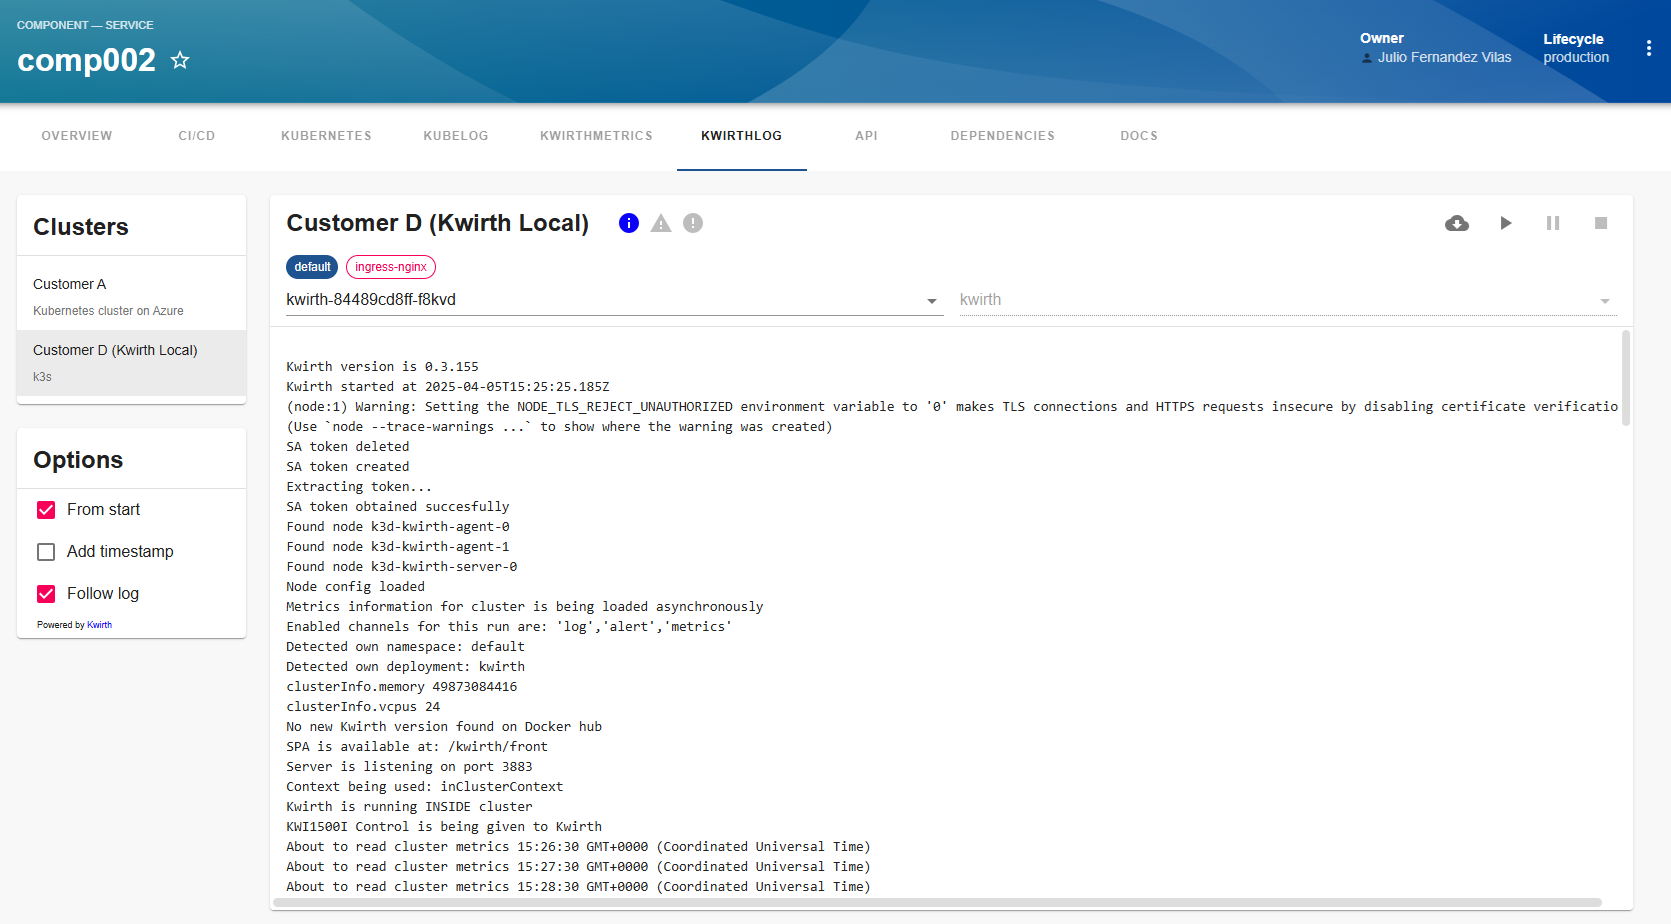
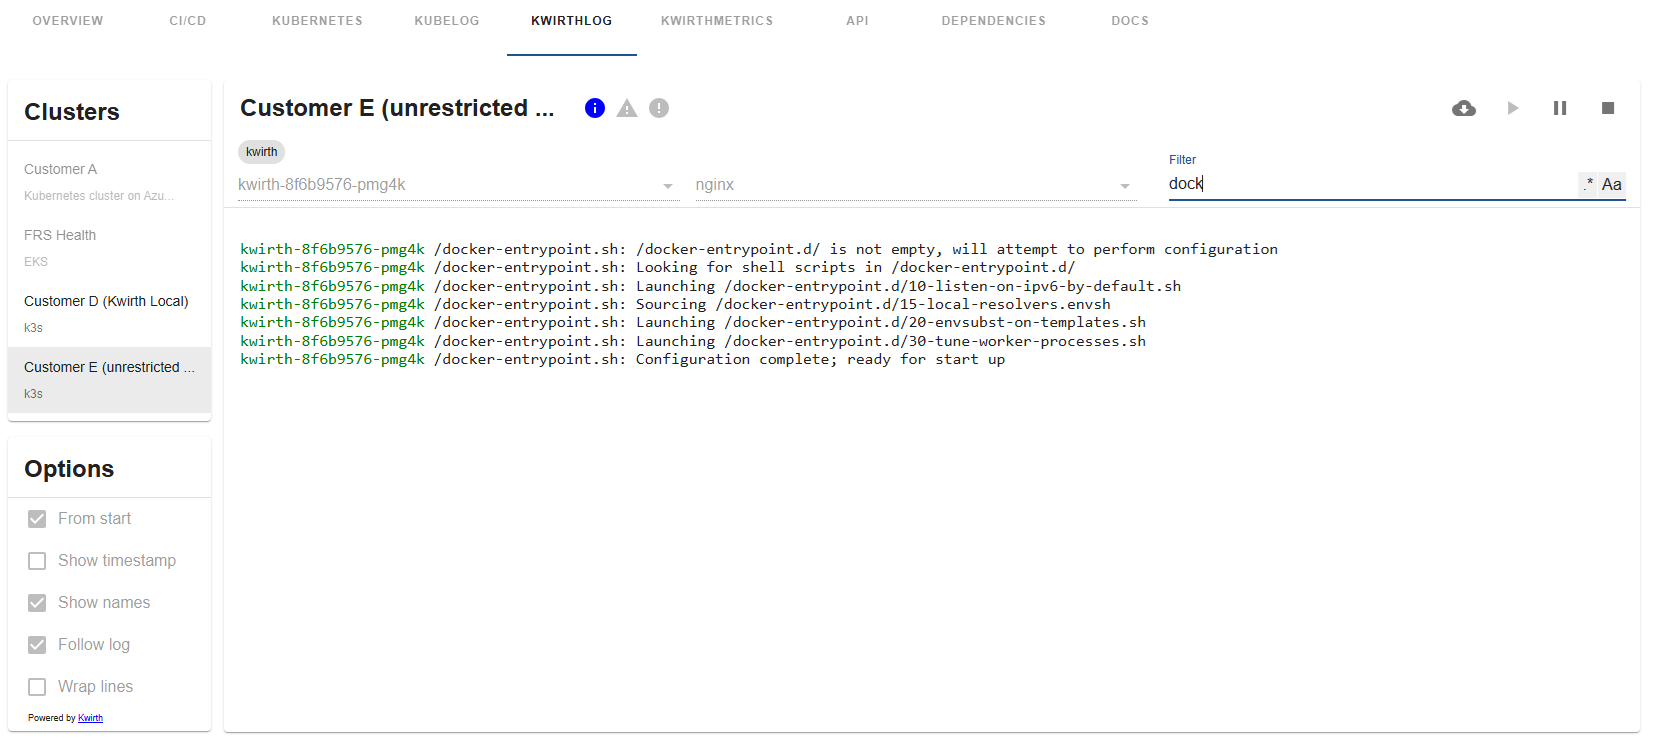
add default options and doc

diff --git a/src/components/EntityKwirthLogContent.tsx b/src/components/EntityKwirthLogContent.tsx
@@ -31,7 +31,7 @@ import { Options } from './Options'
 import { KwirthNews, ComponentNotFound, ObjectSelector, StatusLog, ClusterList, ErrorType } from '@jfvilas/plugin-kwirth-frontend'
 
 // Material-UI
-import { Grid, Card, CardHeader, CardContent, Box, TextField } from '@material-ui/core'
+import { Grid, Card, CardHeader, CardContent, Box, TextField, InputAdornment } from '@material-ui/core'
 import Divider from '@material-ui/core/Divider'
 import IconButton from '@material-ui/core/IconButton'
 import Typography from '@material-ui/core/Typography'
@@ -53,12 +53,12 @@ export interface IProps {
     enableRestart: boolean
     fromStart?: boolean
     showTimestamp?: boolean
-    showPodNames?: boolean
+    showNames?: boolean
     followLog?: boolean
     wrapLines?: boolean
 }
 
-export const EntityKwirthLogContent = (props:IProps) => { 
+export const EntityKwirthLogContent: React.FC<IProps> = (props:IProps) => { 
     const { entity } = useEntity()
     const kwirthLogApi = useApi(kwirthLogApiRef)
     const alertApi = useApi(alertApiRef)
@@ -78,7 +78,7 @@ export const EntityKwirthLogContent = (props:IProps) => {
     const kwirthLogOptionsRef = useRef<IOptions>({
         fromStart: props.fromStart!==undefined? props.fromStart : false, 
         showTimestamp: props.showTimestamp!==undefined?props.showTimestamp:false, 
-        showPodNames: props.showPodNames!==undefined?props.showPodNames : true, 
+        showNames: props.showNames!==undefined?props.showNames : true, 
         followLog: props.followLog!==undefined? props.followLog : true, 
         wrapLines: props.wrapLines!==undefined? props.wrapLines : false
     })
@@ -97,8 +97,12 @@ export const EntityKwirthLogContent = (props:IProps) => {
         setResources(data)
     })
     const buffer = useRef<Map<string,string>>(new Map())
-    const [filter, setFilter] = useState(undefined)
+    const [filter, setFilter] = useState<string>('')
+    const [filterCasing, setFilterCasing] = useState(false)
+    const [filterRegex, setFilterRegex] = useState(false)
 
+    const adornmentSelected= { margin: 0, borderWidth:1, borderStyle:'solid', borderColor:'gray', paddingLeft:3, paddingRight:3, backgroundColor:'gray', cursor: 'pointer', color:'white'}
+    const adornmentNotSelected = { margin: 0, borderWidth:1, borderStyle: 'solid', borderColor:'#f0f0f0', backgroundColor:'#f0f0f0', paddingLeft:3, paddingRight:3, cursor:'pointer'}
     const clickStart = (options:IOptions) => {
         if (!paused.current) {
             setStarted(true)
@@ -526,11 +530,34 @@ export const EntityKwirthLogContent = (props:IProps) => {
             return <>{logLine.text+'\n'}</>
         }
 
-        if (filter!==undefined && filter!=='') {
-            if (!logLine.text.includes(filter) && !logLine.pod.includes(filter) && !logLine.container.includes(filter)) return <></>
+        if (filter!=='') {
+            if (filterCasing) {
+                if (filterRegex) {
+                    try {
+                        const regex=new RegExp(filter)
+                        if (!regex.test(logLine.text) && !regex.test(logLine.pod) && !regex.test(logLine.container)) return <></>
+                    }
+                    catch { return <></> }
+                }
+                else {
+                    if (!logLine.text.includes(filter) && !logLine.pod.includes(filter) && !logLine.container.includes(filter)) return <></>
+                }
+            }
+            else {
+                if (filterRegex) {
+                    try {
+                        const regex=new RegExp(filter.toLocaleLowerCase())
+                        if (!regex.test(logLine.text.toLocaleLowerCase()) && !regex.test(logLine.pod.toLocaleLowerCase()) && !regex.test(logLine.container.toLocaleLowerCase())) return <></>
+                    }
+                    catch { return <></> }
+                }
+                else {
+                    if (!logLine.text.toLocaleLowerCase().includes(filter.toLowerCase()) && !logLine.pod.toLocaleLowerCase().includes(filter.toLocaleLowerCase()) && !logLine.container.toLocaleLowerCase().includes(filter.toLocaleLowerCase())) return <></>
+                }
+            }
         }
         let podPrefix = <></>
-        if (selectedPodNames.length !== 1 || kwirthLogOptionsRef.current.showPodNames) {  // +++test
+        if (selectedPodNames.length !== 1 || kwirthLogOptionsRef.current.showNames) {  // +++test
             podPrefix  = <span style={{color:"green"}}>{logLine.pod+' '}</span>
         }
 
@@ -604,7 +631,18 @@ export const EntityKwirthLogContent = (props:IProps) => {
                                     </Typography>
                                 </Grid>
                                 <Grid item style={{width:'33%', marginLeft:0}} >
-                                    <TextField value={filter} onChange={onChangeFilter} label='Filter' fullWidth style={{marginBottom:6, marginLeft:0}} disabled={!started} ></TextField>
+                                    <TextField value={filter} onChange={onChangeFilter} label='Filter' fullWidth style={{marginBottom:6, marginLeft:0}} disabled={!started} 
+                                        InputProps={{    endAdornment: 
+                                            <>
+                                                <InputAdornment position="start" onClick={() => started && setFilterRegex(!filterRegex)} style={{margin: 0}}>
+                                                    <Typography style={filterRegex? adornmentSelected : adornmentNotSelected}>.*</Typography>
+                                                </InputAdornment>
+                                                <InputAdornment position="start" onClick={() => started && setFilterCasing(!filterCasing)} style={{margin: 0, marginLeft:1}}>
+                                                    <Typography style={filterCasing? adornmentSelected : adornmentNotSelected}>Aa</Typography>
+                                                </InputAdornment>
+                                            </>
+                                        }}
+                                    />
                                 </Grid>
                             </Grid>
                             <Divider/>

diff --git a/src/components/Options.tsx b/src/components/Options.tsx
@@ -48,7 +48,7 @@ const Options = (props: IProps) => {
                 <FormControlLabel style={{marginLeft:8}} label="Show timestamp" control={<Checkbox checked={options.showTimestamp} onChange={() => handleChange({showTimestamp:!options.showTimestamp})} disabled={props.disabled}/>} />
             </Grid>
             <Grid item >
-                <FormControlLabel style={{marginLeft:8}} label="Show names" control={<Checkbox checked={options.showPodNames} onChange={() => handleChange({showNames:!options.showPodNames})} disabled={props.disabled}/>} />
+                <FormControlLabel style={{marginLeft:8}} label="Show names" control={<Checkbox checked={options.showNames} onChange={() => handleChange({showNames:!options.showNames})} disabled={props.disabled}/>} />
             </Grid>
             <Grid item >
                 <FormControlLabel style={{marginLeft:8}}  label="Follow log" control={<Checkbox checked={options.followLog} onChange={() => handleChange({followLog:!options.followLog})} />} disabled={props.disabled}/>

diff --git a/src/components/IOptions.ts b/src/components/IOptions.ts
@@ -16,7 +16,7 @@ limitations under the License.
 export interface IOptions {
     fromStart: boolean
     showTimestamp: boolean
-    showPodNames: boolean
+    showNames: boolean
     followLog: boolean
     wrapLines: boolean
 }

diff --git a/README.md b/README.md
@@ -1,8 +1,6 @@
 # Backstage frontend KwirthLog plugin
 This package is a Backstage frontend plugin for **viewing Kubernetes logs** in real-time (live-streaming) via Kwirth.
 
-**NOTE: KwithLog requires Kwirth vesrsion 0.3.160 or greater**
-
 This Backstage plugin allows you to live-stream Kubernetes logs associated to your Backstage entities directly inside your Backstage instance. It's very important to understand that for this plugin to work...:
 
   - You need to install the Kwirth [Backstage backend plugin](https://www.npmjs.com/package/@jfvilas/plugin-kwirth-backend).
@@ -11,6 +9,17 @@ This Backstage plugin allows you to live-stream Kubernetes logs associated to yo
 Kwirth is a really-easy-to-use data-exporting system for Kubernetes that runs in only one pod (*no database is needed*). Refer to Kwirth GitHub project for [info on installation](https://github.com/jfvilas/kwirth?tab=readme-ov-file#installation). Kwirth installation is *one command away* from you.
 
 You can access [Kwirth project here](https://github.com/jfvilas/kwirth).
+
+
+## Version compatibility
+Following table shows version compatibility between this Kwirth Backstage plugin and Kwirth Core server.
+
+| Plugin Kwirth version | Kwirth version |
+|-|-|
+|0.13.0|0.4.131|
+|0.12.8|0.4.45|
+|0.12.5|0.4.20|
+|0.11.3|0.3.160|
 
 
 ## What is this plugin for?
@@ -36,16 +45,6 @@ Let's explain this by following a user working sequence:
 7. With all this information, the backend builds a unique response containing all the pods the user have access to, and all the API keys needed to access those logs.
 
 If everyting is correctly configured and tagged, the user should see a list of clusters. When selecting a cluster, the user should see a list of namespaces where the entity is running.
-
-
-## Version compatibility
-Following table shows version compatibility between this Kwirth Backstage plugin and Kwirth Core server.
-
-| Plugin Kwirth version | Kwirth version |
-|-|-|
-|0.12.8|0.4.45|
-|0.12.5|0.4.20|
-|0.11.3|0.3.160|
 
 
 ## Installation
@@ -78,7 +77,7 @@ For Kwirth plugin to be usable on the frontend, you must tailor your Entity Page
     ```
 
     Then, add a tab to your EntityPage (the 'if' is optional, you can keep the 'KwirthLog' tab always visible if you prefer to do it that way).
-    ````jsx
+    ```jsx
     // Note: Add to any other Pages as well (e.g. defaultEntityPage or webSiteEntityPage, for example)
     const serviceEntityPage = (
       <EntityLayout>
@@ -88,6 +87,23 @@ For Kwirth plugin to be usable on the frontend, you must tailor your Entity Page
         </EntityLayout.Route>
       </EntityLayout>
     )
+    ```
+
+    You can setup some default *viewing* options on the `EntityKwirthLogContent` component, so, when the entity loads the default options will be set. These options are:
+    - `formStart`
+    - `showNames`
+    - `showTimestamp`
+    - `followLog`
+    - `wrapLines`
+    (The meaning of these properties are explained at the end of this document)
+
+    For example, you could setup your default log stream like this:
+    ```jsx
+      ...
+      <EntityLayout.Route if={isKwirthAvailable} path="/kwirthlog" title="KwirthLog">
+        <EntityKwirthLogContent enableRestart={false} fromStrat={true} showTimestamp={true} wrapLines={true} />
+      </EntityLayout.Route>
+      ...
     ```
 
 2. Label your catalog-info according to one of these two startegies:
@@ -104,7 +120,7 @@ For Kwirth plugin to be usable on the frontend, you must tailor your Entity Page
 
     ```yaml
     metadata:
-      annotations:
+      annotaations:
         backstage.io/kubernetes-id: 'app=core,artifact=backend'
     ```
 
@@ -166,6 +182,13 @@ Now you will see your log refreshing in real-time. If you selected more than one
 
 ![running](https://raw.githubusercontent.com/jfvilas/plugin-kwirth-log/master/images/kwirthlog-running.png)
 
+### Filtering
+When the log stream starts you will see a filter text field you can use for filtering messages. The use is as follows:
+  - If you type something, the messages (or the pod names or the container names) are expected to match that text.
+  - If you select `Aa`, the text match will be performed taking **casing** into account.
+  - If you select `.*` then the text entered will be treated as a regular expression.
+  - You can select *casing* and *regex* if you want regexes to match taking casing into account.
+
 Feel free to open issues and ask for more features.
 
 ## Status information
@@ -182,3 +205,21 @@ This is how it feels:
 
 If you click on one of the status icons when theyr are enableds (coloured), you will see the detail of the status.
 ![status detail](https://raw.githubusercontent.com/jfvilas/plugin-kwirth-log/master/images/kwirthlog-status-detail.png)
+
+## Log stream options
+The log streaming system implemented in KwirthLog has some configuration options whose meaning is explained below.
+
+### From start (`fromStart`)
+If checked, the log streams will be retieved since pod start time. Please be careful with this option, it may impact your browser performance.
+
+### Show message time (`showTimestamp`)
+Decide whether to show timestamps next to messages or not. Usually your application logs messages with timestamp, but it this doesn't occur you can add message time (as provided by Kubernetes) to your messages.
+
+### Show pod names (`showNames`)
+Show pod names and container names next to messages. You may need to use this option if you are showing messages from different sources.
+
+### Follow log stream (`followLog`)
+If you activate this option, the log stream wil move to the end wehn a new messages arrives (it's like a `tail -f`).
+
+### Wrap log lines (`wrapLines`)
+Normally, KwirthLog will add hotizontal and vertical scrollers as needed in order to preserve original log lines, but you can activate this option to wrap lines and not to show horizontal scroller.
